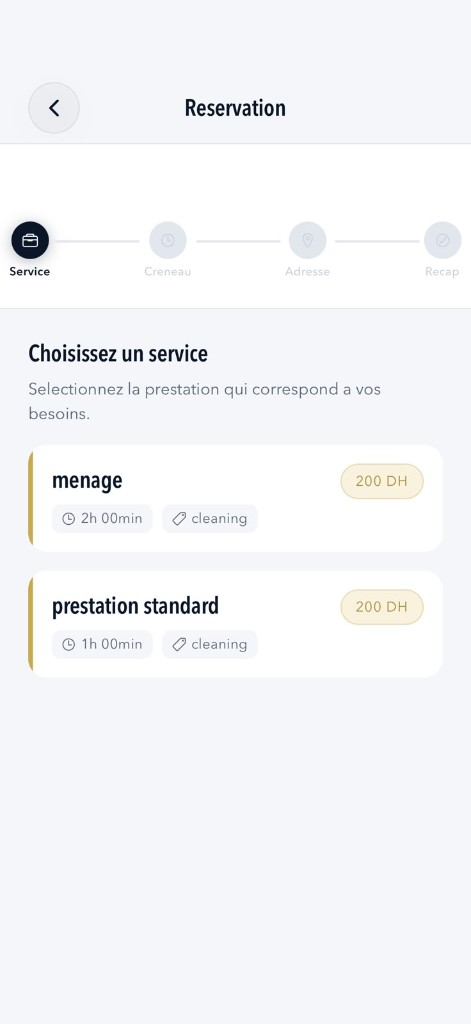
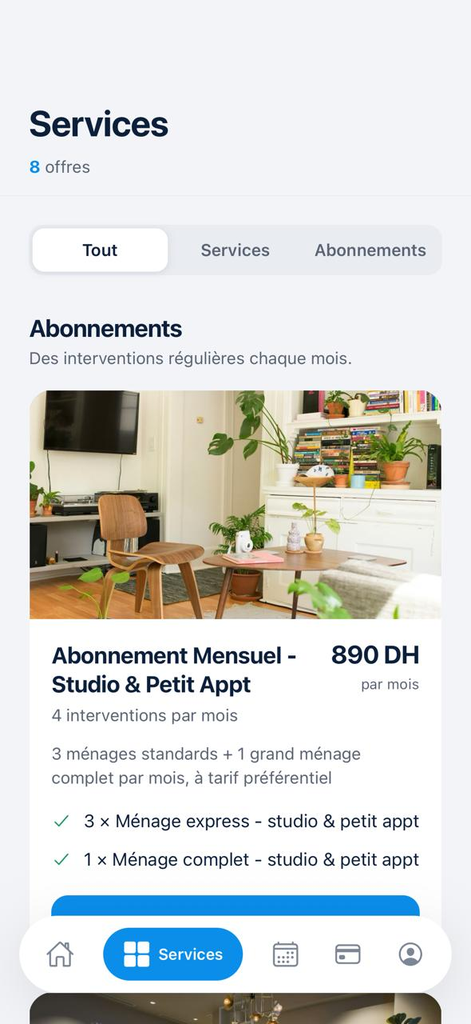
Nouvelles captures de l'application (sans prénom), noms de l'appli affichés en AR/EN
Claude-Session: https://claude.ai/code/session_01Dn9RHDNShuyQGxNwwnyqaJ

diff --git a/lib/i18n.ts b/lib/i18n.ts
@@ -32,8 +32,11 @@ export const traduireDuree = (texte: string, commun: TextesCommuns): string => {
 };
 
 /** Libellé d'option traduit ; le libellé français s'il n'a pas de traduction. */
-export const traduireOption = (libelle: string, commun: TextesCommuns): string =>
-  commun.options[libelle.trim()] ?? libelle;
+export const traduireOption = (libelle: string, commun: TextesCommuns): string => {
+  const traduit = commun.options[libelle.trim()];
+  // L'application est en français : son libellé reste visible pour la retrouver.
+  return traduit ? `${traduit} (${libelle.trim()})` : libelle;
+};
 
 /** « +150 DH » → « +150 درهم » ; le texte d'origine s'il est illisible. */
 export const traduirePrixOption = (prix: string, commun: TextesCommuns): string => {
@@ -90,7 +93,8 @@ export const traduireGrille = (
         id: formule.id,
         categorieId: categorie.id,
         categorie: nomCategorie,
-        formule: nom,
+        // Nom de la formule dans l'application (en français), pour la retrouver.
+        formule: `${nom} (${formule.nom})`,
         detail: traduireDuree(formule.duree, commun),
         prix: commun.prix(valeur),
         valeur,
@@ -114,7 +118,7 @@ export const traduireGrille = (
           id: abonnement.id,
           categorieId: categorie.id,
           categorie: nomCategorie,
-          formule: commun.abonnement,
+          formule: `${commun.abonnement} (Abonnement mensuel)`,
           detail: contenu,
           prix: `${commun.prix(prixMensuel)} ${commun.parMois}`,
           valeur: prixMensuel,

diff --git a/content/i18n/pages/accueil.ts b/content/i18n/pages/accueil.ts
@@ -118,7 +118,7 @@ const anglais: TextesAccueil = {
       { titre: 'Tracking', texte: 'You can always see how your request is progressing.' },
     ],
     ecrans: {
-      mesReservations: '“Mes réservations” (My bookings) screen of the Najem Clean Service app',
+      mesReservations: 'Services and monthly plan screen of the Najem Clean Service app',
       reservation: 'Booking screen of the Najem Clean Service app: choosing the service',
     },
   },
@@ -242,7 +242,7 @@ const arabe: TextesAccueil = {
       { titre: 'المتابعة', texte: 'تبقى على اطلاع دائم بتقدّم طلبك.' },
     ],
     ecrans: {
-      mesReservations: 'شاشة « Mes réservations » (حجوزاتي) في تطبيق Najem Clean Service',
+      mesReservations: 'شاشة الخدمات والاشتراك الشهري في تطبيق Najem Clean Service',
       reservation: 'شاشة الحجز في تطبيق Najem Clean Service: اختيار الخدمة',
     },
   },

diff --git a/content/i18n/pages/application.ts b/content/i18n/pages/application.ts
@@ -103,7 +103,7 @@ const anglais: TextesApplication = {
   },
   ecrans: {
     reservation: 'Booking screen of the Najem Clean Service app: choosing the service',
-    mesReservations: '“Mes réservations” (My bookings) screen of the Najem Clean Service app',
+    mesReservations: 'Services and monthly plan screen of the Najem Clean Service app',
   },
   demarrer: {
     surtitre: 'First steps',
@@ -187,7 +187,7 @@ const arabe: TextesApplication = {
   },
   ecrans: {
     reservation: 'شاشة الحجز في تطبيق Najem Clean Service: اختيار الخدمة',
-    mesReservations: 'شاشة « Mes réservations » (حجوزاتي) في تطبيق Najem Clean Service',
+    mesReservations: 'شاشة الخدمات والاشتراك الشهري في تطبيق Najem Clean Service',
   },
   demarrer: {
     surtitre: 'الخطوات الأولى',

diff --git a/app/(site)/application/page.tsx b/app/(site)/application/page.tsx
@@ -190,7 +190,7 @@ export default async function ApplicationPage() {
                 <FloatingPhone amplitude={7} duration={9} className="-ml-10 sm:-ml-14">
                   <PhoneFrame
                     src="/images/app/app-screen-3.png"
-                    alt="Écran « Mes réservations » de l’application Najem Clean Service"
+                    alt="Écran « Nos prestations » et abonnement de l’application Najem Clean Service"
                     width={242}
                     sizes="(max-width: 640px) 58vw, 242px"
                   />

diff --git a/components/home/AppSpotlight.tsx b/components/home/AppSpotlight.tsx
@@ -120,7 +120,7 @@ export function AppSpotlight({ textes, boutiques }: AppSpotlightProps) {
                     src="/images/app/app-screen-3.png"
                     alt={
                       textes?.ecrans.mesReservations ??
-                      'Écran « Mes réservations » de l’application Najem Clean Service'
+                      'Écran « Nos prestations » et abonnement de l’application Najem Clean Service'
                     }
                     width={210}
                     sizes="210px"
